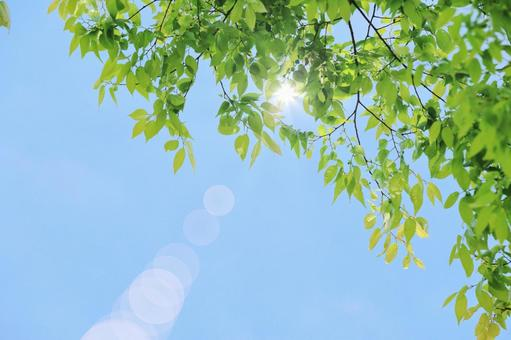
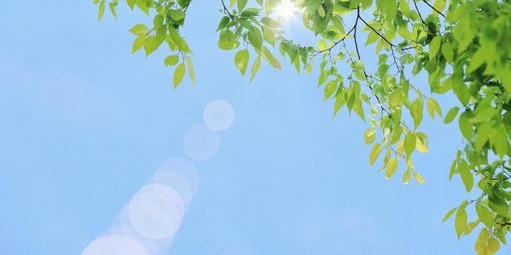
Add files via upload

diff --git a/index.html b/index.html
@@ -8,7 +8,7 @@
 		<link href="https://fonts.googleapis.com/css2?family=Montserrat:wght@400;500;600;700&display=swap" rel="stylesheet">
 	</head>
 	<body>
-		<div class="box1" style="position:relative;" id="home">
+		<div class="box1" id="home">
 			<img src="top4.jpg" width="100%">
 			
 			<div class="box2">
@@ -16,7 +16,7 @@
 				<div class="title" style="font-family:Montserrat,sans-serif;">MEGUMI Y.</div>
 				
 				<div class="caption">
-					これまでの経験と、あなたとつくるこれから。
+					これまでの経験と、これから。
 				</div>
 					
 				
@@ -44,9 +44,9 @@
 				<br>
 				営業所の事務として26年勤務。<br>
 				正確さやスピードはもちろん、営業マンが安心して仕事に集中できるよう
-				縁の下の力持ちを体現。<br>
-				改善アンテナはデフォルト装備。
-				よりスムーズな運用が全社へ波及しました。
+				縁の下の力持ちを体現。
+				また、改善アンテナはデフォルト装備。
+				よりスムーズな運用を生み出し、全社へ波及しました。
 			</div>
 			
 			<div class="box6">
@@ -57,7 +57,7 @@
 				もともと料理は大の苦手。自炊しない生活へ挑戦するもわずか一週間で終了。<br>
 				そこから腹をくくって料理と向き合う。<br>
 				今では食養生の考え方も学びながら、食と健康のつながりを探求中。<br>
-				おいしさも健やかな暮らしも、毎日の食卓からうまれる毎日です。
+				おいしさも健やかな暮らしも、毎日の食卓からうまれると考えています。
 				
 			</div>
 			
@@ -80,18 +80,18 @@
 				<br>
 				自身の送別会カラオケで全く声が出ず、そして歌にならず大撃沈。<br>
 				この恥ずかしい思いをなんとかしたいと始めたボイストレーニング。<br>
-				できなくて凹むこと。それができるようになる過程がおもしろいんです。
+				できなくて凹む日々。でもそれができるようになる過程がおもしろいんです。
 				
 			</div>
 			
 			<div class="box10">
 				<div class="text text-color">04 / NEXT</div>
 				
-				<div class="subheading text-color">そして、次がはじまる。</div>
+				<div class="subheading text-color">そして、次は始まっている。</div>
 				<br>
 				長年の会社員生活から働き方を大きくシフトチェンジ。<br>
 				現在WEB制作を勉強中。<br>
-				あなたの「やってみたい」を一緒にカタチにしていきましょう。
+				「やってみたい」をカタチにしていきます。
 			</div>
 			
 			<div style="clear:both;"></div>
@@ -108,7 +108,7 @@
 							<span class="text">
 							経験も、好奇心も、ちょっとした思いつきも。
 							<br>
-							こぼれないように集めよう。
+							大切にすくいあげよう。
 							</span>
 					</div>
 			</div>
@@ -132,9 +132,8 @@
 						｜
 						<img src="Instagram_Glyph_Black.png" width="25px" style="margin-left:5px;">
 					</div>
-					
+					<p style="text-align: center; font-size: 12px; color: #888888;">&copy; 2026 Megumi Yamasaki. All Rights Reserved.</p>
 				</div>
-					
 			</div>
 	</body>
 </html>

diff --git a/style.css b/style.css
@@ -21,6 +21,7 @@ a {
 }
 
 .box1 {
+	position: relative;
 	width:100%;
 	height:600px;
 	background-color:#FFEEEE;
@@ -33,7 +34,7 @@ a {
 	top:450px;
 	left:40px;
 	color:#ffffff;
-	font-family:'Jost,sans-serif;
+	font-family:'Jost',sans-serif;
 	font-weight:700;
 }	
 	
@@ -43,7 +44,7 @@ a {
 	height:400px;
 	background-color:#a9a9a9;
 	margin-right:20px;
-	border-radius:20px;
+	border-radius:20px 20px 0 0;
 	overflow: hidden;
 	background-image:url("work.jpg");
 	background-repeat:no-repeat;
@@ -57,7 +58,7 @@ a {
 	height:400px;
 	background-color:#80808080;
 	margin-left:20px;
-	border-radius:20px;
+	border-radius:20px 20px 0 0;
 	overflow: hidden;
 	background-image:url("food.jpg");
 	background-repeat:no-repeat;
@@ -68,19 +69,21 @@ a {
 .box5 {
 	float:left;
 	width:580px;
-	height:200px;
+	height:220px;
 	background-color:#FAF9F6;
 	margin-right:20px;
 	padding-top:30px;
+	border-radius:0 0 20px 20px;
 }
 
 .box6 {
 	float:left;
 	width:580px;
-	height:200px;
+	height:220px;
 	background-color:#FAF9F6;
 	margin-left:20px;
 	padding-top:30px;
+	border-radius:0 0 20px 20px;
 }
 
 .box7 {
@@ -89,7 +92,7 @@ a {
 	height:400px;
 	background-color:#a9a9a9;
 	margin-right:20px;
-	border-radius:20px;
+	border-radius:20px 20px 0 0;
 	overflow: hidden;
 	background-image:url("challenge1.jpg");
 	background-repeat:no-repeat;
@@ -103,7 +106,7 @@ a {
 	height:400px;
 	background-color:#80808080;
 	margin-left:20px;
-	border-radius:20px;
+	border-radius:20px 20px 0 0;
 	overflow: hidden;
 	background-image:url("next.jpg");
 	background-repeat:no-repeat;
@@ -118,6 +121,7 @@ a {
 	background-color:#FAF9F6;
 	margin-right:20px;
 	padding-top:30px;
+	border-radius:0 0 20px 20px;
 }
 
 .box10 {
@@ -127,6 +131,7 @@ a {
 	background-color:#FAF9F6;
 	margin-left:20px;
 	padding-top:30px;
+	border-radius:0 0 20px 20px;
 }
 
 .box11 {
@@ -142,6 +147,7 @@ a {
 	height:200px;
 	background-color:#FAF9F6;
 	padding-top:30px;
+	border-radius:20px;
 }	
 
 
